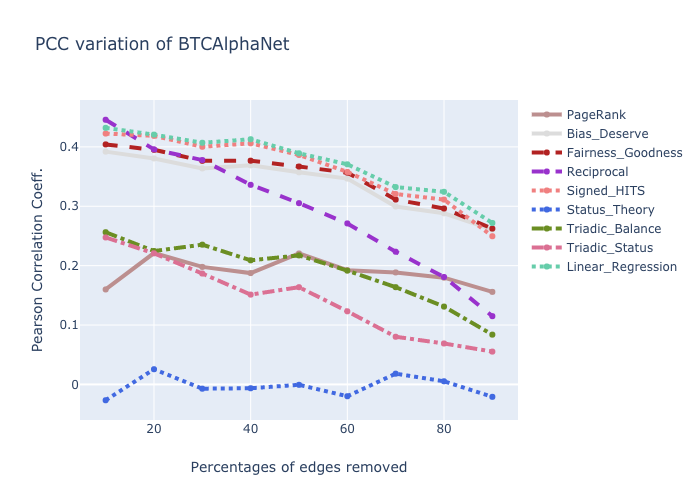
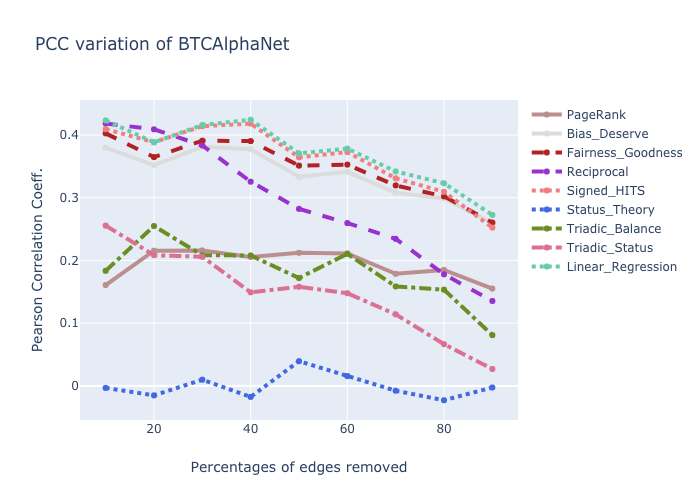
fix bug

diff --git a/ex2.py b/ex2.py
@@ -29,7 +29,7 @@ def main():
                       'Reciprocal', 'Signed_HITS', 'Status_Theory',
                       'Triadic_Balance', 'Triadic_Status', 'Linear_Regression']
 
-    algorithm_list = ['fg', 'pr', 'sh', 'ts', 'lr', 'bd', 'rp', 'st', 'tb']
+    algorithm_list = ['pr', 'bd', 'fg', 'rp', 'sh', 'st', 'tb', 'ts', 'lr']
 
     percentages = list(range(10, 100, 10))
 
